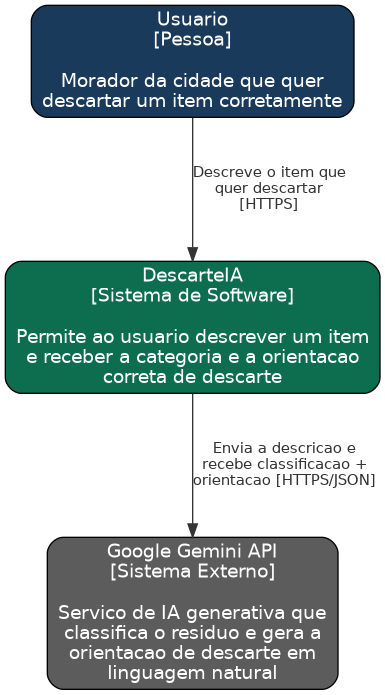
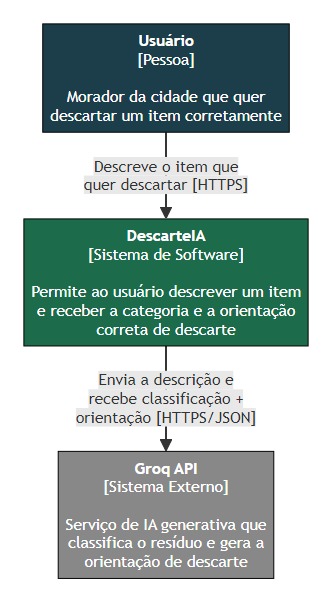
Atualiza os diagramas (C4, classes, banco, casos de uso, sequencia) pra bater com o backend novo

diff --git a/docs/diagrama-classes.md b/docs/diagrama-classes.md
@@ -1,55 +1,49 @@
 # Diagrama de Classes - DescarteIA
 
-Reflete o que está implementado no backend até a Entrega 3.
+Reflete o backend real do projeto.
 
 ```mermaid
 classDiagram
-    class Descarte {
+    class HistoricoItem {
         +int id
-        +string descricaoInformada
-        +StatusDescarte status
-        +datetime dataRegistro
-    }
-
-    class StatusDescarte {
-        <<enumeration>>
-        PENDENTE
-        CLASSIFICADO
-        ERRO
-    }
-
-    class ClassificacaoIA {
-        +int id
-        +int descarteId
+        +string descricao
         +string nomeResiduo
+        +Categoria categoria
         +bool reciclavel
         +string instrucoesDescarte
         +string dica
         +string emoji
-        +float confianca
-        +string promptUtilizado
-        +string respostaBruta
-        +datetime processadoEm
+        +datetime dataRegistro
     }
 
-    class CategoriaResiduo {
-        +int id
-        +string nome
-        +string descricao
-        +string instrucoesDescarte
-        +string corIdentificacao
-        +bool reciclavel
+    class Categoria {
+        <<enumeration>>
+        Papel
+        Papelão
+        Plástico
+        Vidro
+        Metal
+        Orgânico
+        Rejeito
+        Eletrônico
+        Pilha ou bateria
+        Lâmpada
+        Resíduo de saúde
+        Óleo de cozinha
+        Resíduo perigoso
+        Volumoso
+        Têxtil
+        Outro
     }
 
-    class GeminiClassificacaoIAService {
+    class GroqClassificacaoIAService {
         -string apiKey
         +classificar(descricao) dict
     }
 
-    Descarte "1" --> "1" ClassificacaoIA : gera
-    ClassificacaoIA "*" --> "1" CategoriaResiduo : identifica
-    ClassificacaoIA ..> GeminiClassificacaoIAService : usa
-    Descarte --> StatusDescarte : possui
+    HistoricoItem --> Categoria : possui
+    GroqClassificacaoIAService ..> Categoria : classifica em
 ```
 
-`Usuario` e `PontoColeta`, que apareciam na versão inicial deste diagrama (documento de visão), ainda não foram implementados - ficam para uma próxima entrega, quando o app tiver cadastro de usuário e busca por local de coleta.
+`Usuario` e `PontoColeta`, do documento de visão inicial, não entraram no
+escopo até agora.

diff --git a/docs/diagrama-sequencia.md b/docs/diagrama-sequencia.md
@@ -1,24 +1,44 @@
-# Diagrama de Sequência - Classificação de Resíduo via IA
+# Diagramas de Sequência - DescarteIA
 
-Fluxo do momento em que o usuário descreve o item e o sistema devolve a orientação de descarte.
+## Analisar um resíduo
 
 ```mermaid
 sequenceDiagram
     actor U as Usuário
-    participant App as App (React)
+    participant App as Frontend (React)
     participant API as Backend DescarteIA
-    participant IA as Gemini API
+    participant IA as Groq API
+
+    U->>App: Descreve o resíduo
+    App->>API: POST /api/classificar
+    API->>IA: Envia o prompt com a descrição
+    IA-->>API: Retorna categoria + instruções
+    API-->>App: Retorna a classificação
+    App-->>U: Mostra categoria, instruções e dica
+```
+
+## Histórico
+
+```mermaid
+sequenceDiagram
+    actor U as Usuário
+    participant App as Frontend (React)
+    participant API as Backend DescarteIA
     participant DB as Banco de Dados
 
-    U->>App: Descreve o resíduo (texto)
-    App->>API: POST /descartes
-    API->>DB: Salva registro (status: PENDENTE)
-    API-->>App: Retorna id do descarte
+    U->>App: Clica em "Salvar no histórico"
+    App->>API: POST /api/historico
+    API->>DB: Salva o item
+    API-->>App: Confirma
 
-    App->>API: POST /descartes/{id}/classificar
-    API->>IA: Envia prompt com a descrição
-    IA-->>API: Retorna categoria + instruções
-    API->>DB: Salva ClassificacaoIA, atualiza status para CLASSIFICADO
-    API-->>App: Retorna descarte + classificação
-    App-->>U: Exibe categoria, instruções e dica
+    U->>App: Abre a tela de histórico
+    App->>API: GET /api/historico
+    API->>DB: Busca os itens salvos
+    DB-->>API: Lista de itens
+    API-->>App: Retorna a lista
+
+    U->>App: Clica em "Limpar histórico"
+    App->>API: DELETE /api/historico
+    API->>DB: Apaga os itens
+    API-->>App: Confirma
 ```

diff --git a/docs/diagrama-casos-de-uso.md b/docs/diagrama-casos-de-uso.md
@@ -5,25 +5,28 @@ flowchart TB
     Usuario((Usuário))
 
     subgraph Sistema["DescarteIA"]
-        UC1([Descrever o resíduo])
-        UC2([Classificar resíduo via IA])
-        UC3([Ver instruções de descarte])
-        UC4([Ver histórico de descartes])
+        UC1([Analisar resíduo])
+        UC2([Ver resultado])
+        UC3([Salvar no histórico])
+        UC4([Ver histórico])
+        UC5([Limpar histórico])
     end
 
     Usuario --> UC1
     UC1 --> UC2
     UC2 --> UC3
     Usuario --> UC4
+    Usuario --> UC5
 ```
 
-| Caso de uso | Ator | Descrição |
-|---|---|---|
-| Descrever o resíduo | Usuário | Digita o que quer descartar (sem foto, só texto) |
-| Classificar resíduo via IA | Sistema | Usa a API do Gemini para identificar a categoria |
-| Ver instruções de descarte | Usuário | Recebe orientação de como descartar corretamente |
-| Ver histórico de descartes | Usuário | Consulta descartes já feitos (salvo no navegador, local) |
+| Caso de uso | Descrição |
+|---|---|
+| Analisar resíduo | Descreve em texto o que quer descartar e manda pro backend classificar |
+| Ver resultado | Backend devolve categoria, se é reciclável, instruções e uma dica |
+| Salvar no histórico | Guarda esse resultado no backend |
+| Ver histórico | Lista os resultados já salvos |
+| Limpar histórico | Apaga tudo o que foi salvo |
 
-Login, cadastro de usuário, pontos de coleta e um painel de admin para gerenciar
+Login, cadastro de usuário, pontos de coleta e um painel de admin pra
 categorias estavam no documento de visão inicial, mas não entraram no escopo
-desta entrega - foi definido como 2-3 funcionalidades essenciais pra entrega 3.
+até agora.

diff --git a/docs/diagrama-banco-de-dados.md b/docs/diagrama-banco-de-dados.md
@@ -1,45 +1,22 @@
 # Diagrama do Banco de Dados - DescarteIA
 
-MER das tabelas usadas no backend (SQLite via SQLAlchemy).
+Uma tabela só, sem relacionamento com outra tabela.
 
 ```mermaid
 erDiagram
-    DESCARTES {
+    HISTORICO {
         int id PK
-        string descricao_informada
-        string status
-        datetime data_registro
-    }
-
-    CLASSIFICACOES_IA {
-        int id PK
-        int descarte_id FK
-        int categoria_id FK
+        string descricao
         string nome_residuo
+        string categoria
         bool reciclavel
         string instrucoes_descarte
         string dica
         string emoji
-        float confianca
-        string prompt_utilizado
-        string resposta_bruta
-        datetime processado_em
+        datetime data_registro
     }
-
-    CATEGORIAS_RESIDUO {
-        int id PK
-        string nome
-        string descricao
-        string instrucoes_descarte
-        string cor_identificacao
-        bool reciclavel
-    }
-
-    DESCARTES ||--|| CLASSIFICACOES_IA : "gera"
-    CATEGORIAS_RESIDUO ||--o{ CLASSIFICACOES_IA : "classifica em"
 ```
 
-`categoria_id` só fica nulo se a IA responder com um nome de categoria que não
-existe na tabela `categorias_residuo` (não deveria acontecer, já que o prompt
-lista as categorias válidas, mas o código trata esse caso). `confianca` sempre
-fica nulo porque a API do Gemini não retorna esse valor.
+`categoria` é salva como texto (um dos 16 valores da enumeração `Categoria`),
+não como uma tabela separada - não tem necessidade de gerenciar categorias
+dinamicamente, elas são fixas no código.

diff --git a/docs/c4-nivel2-container.md b/docs/c4-nivel2-container.md
@@ -1,0 +1,26 @@
+# C4 Nível 2 - Contêineres
+
+```mermaid
+flowchart TB
+    Usuario["<b>Usuário</b><br/>[Pessoa]<br/><br/>Morador da cidade que quer<br/>descartar um item corretamente"]
+
+    subgraph Sistema["DescarteIA [Fronteira do Sistema]"]
+        Front["<b>Aplicativo</b><br/>[Container: React]<br/><br/>Interface onde o usuário<br/>descreve o item e vê o<br/>resultado da classificação"]
+        Back["<b>API Backend</b><br/>[Container: Python / FastAPI]<br/><br/>Recebe a requisição do app,<br/>protege a chave da IA e<br/>orquestra a chamada externa"]
+        DB[("<b>Banco de Dados</b><br/>[Container: SQLite]<br/><br/>Armazena o histórico<br/>de consultas já feitas")]
+    end
+
+    Groq["<b>Groq API</b><br/>[Sistema Externo]<br/><br/>Classifica o resíduo e gera<br/>a orientação de descarte"]
+
+    Usuario -->|"Usa [HTTPS]"| Front
+    Front -->|"Envia descrição do item<br/>[JSON/HTTPS]"| Back
+    Back -->|"Lê e grava<br/>histórico [SQL]"| DB
+    Back -->|"Solicita classificação<br/>[HTTPS/JSON]"| Groq
+
+    classDef pessoa fill:#1C3D4A,color:#fff,stroke:#000
+    classDef container fill:#1C6B4A,color:#fff,stroke:#000
+    classDef externo fill:#888,color:#fff,stroke:#000
+    class Usuario pessoa
+    class Front,Back,DB container
+    class Groq externo
+```

diff --git a/docs/c4-nivel1-contexto.md b/docs/c4-nivel1-contexto.md
@@ -1,0 +1,18 @@
+# C4 Nível 1 - Contexto
+
+```mermaid
+flowchart TB
+    Usuario["<b>Usuário</b><br/>[Pessoa]<br/><br/>Morador da cidade que quer<br/>descartar um item corretamente"]
+    Sistema["<b>DescarteIA</b><br/>[Sistema de Software]<br/><br/>Permite ao usuário descrever um item<br/>e receber a categoria e a orientação<br/>correta de descarte"]
+    Groq["<b>Groq API</b><br/>[Sistema Externo]<br/><br/>Serviço de IA generativa que<br/>classifica o resíduo e gera a<br/>orientação de descarte"]
+
+    Usuario -->|"Descreve o item que<br/>quer descartar [HTTPS]"| Sistema
+    Sistema -->|"Envia a descrição e<br/>recebe classificação +<br/>orientação [HTTPS/JSON]"| Groq
+
+    classDef pessoa fill:#1C3D4A,color:#fff,stroke:#000
+    classDef sistema fill:#1C6B4A,color:#fff,stroke:#000
+    classDef externo fill:#888,color:#fff,stroke:#000
+    class Usuario pessoa
+    class Sistema sistema
+    class Groq externo
+```
